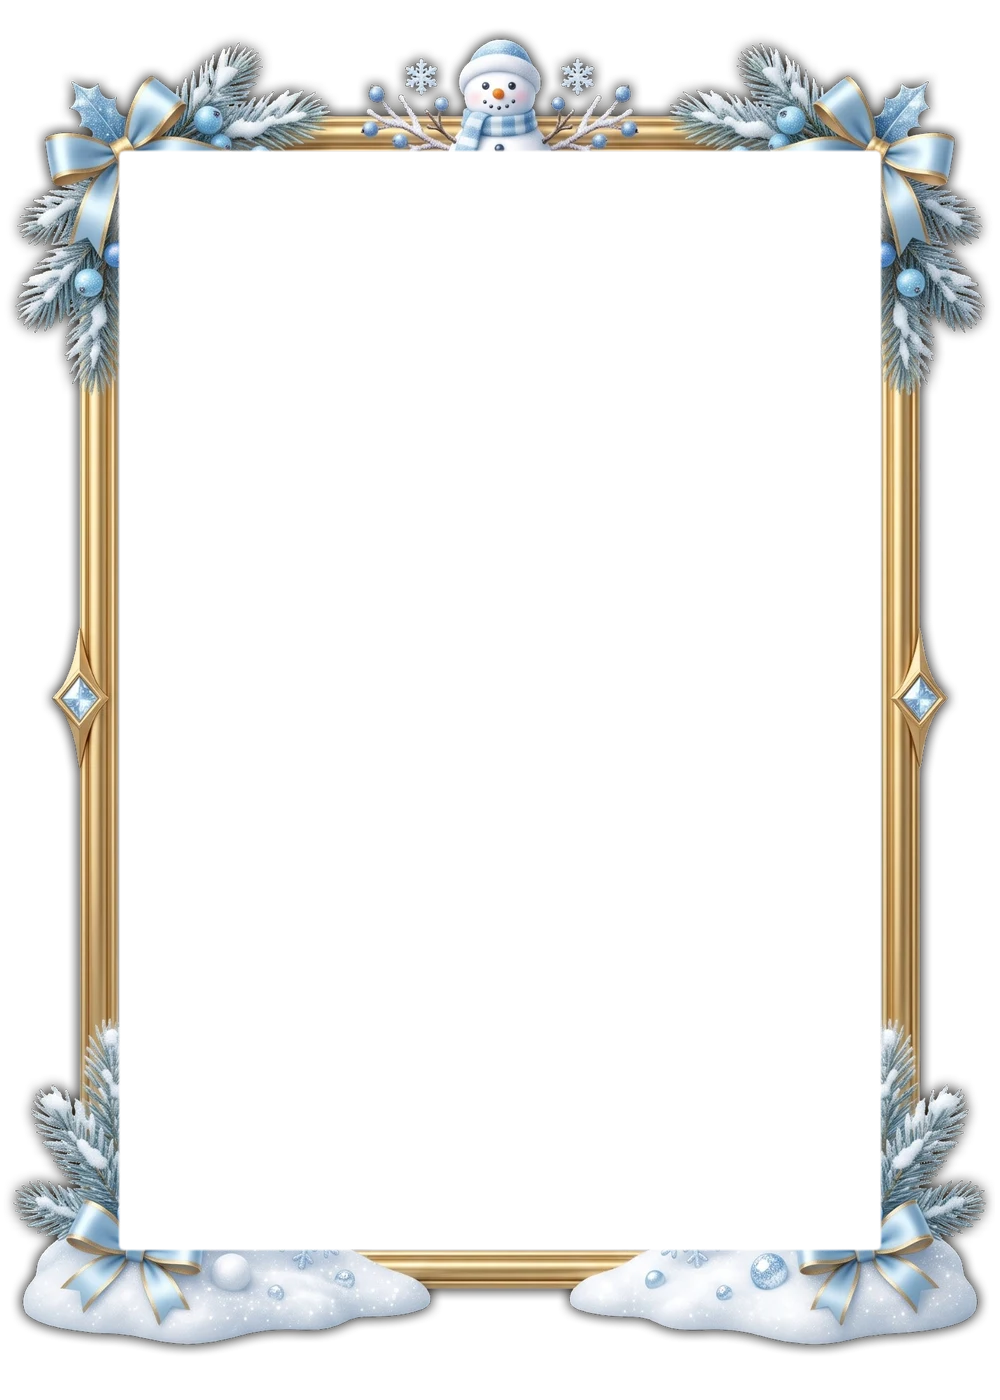
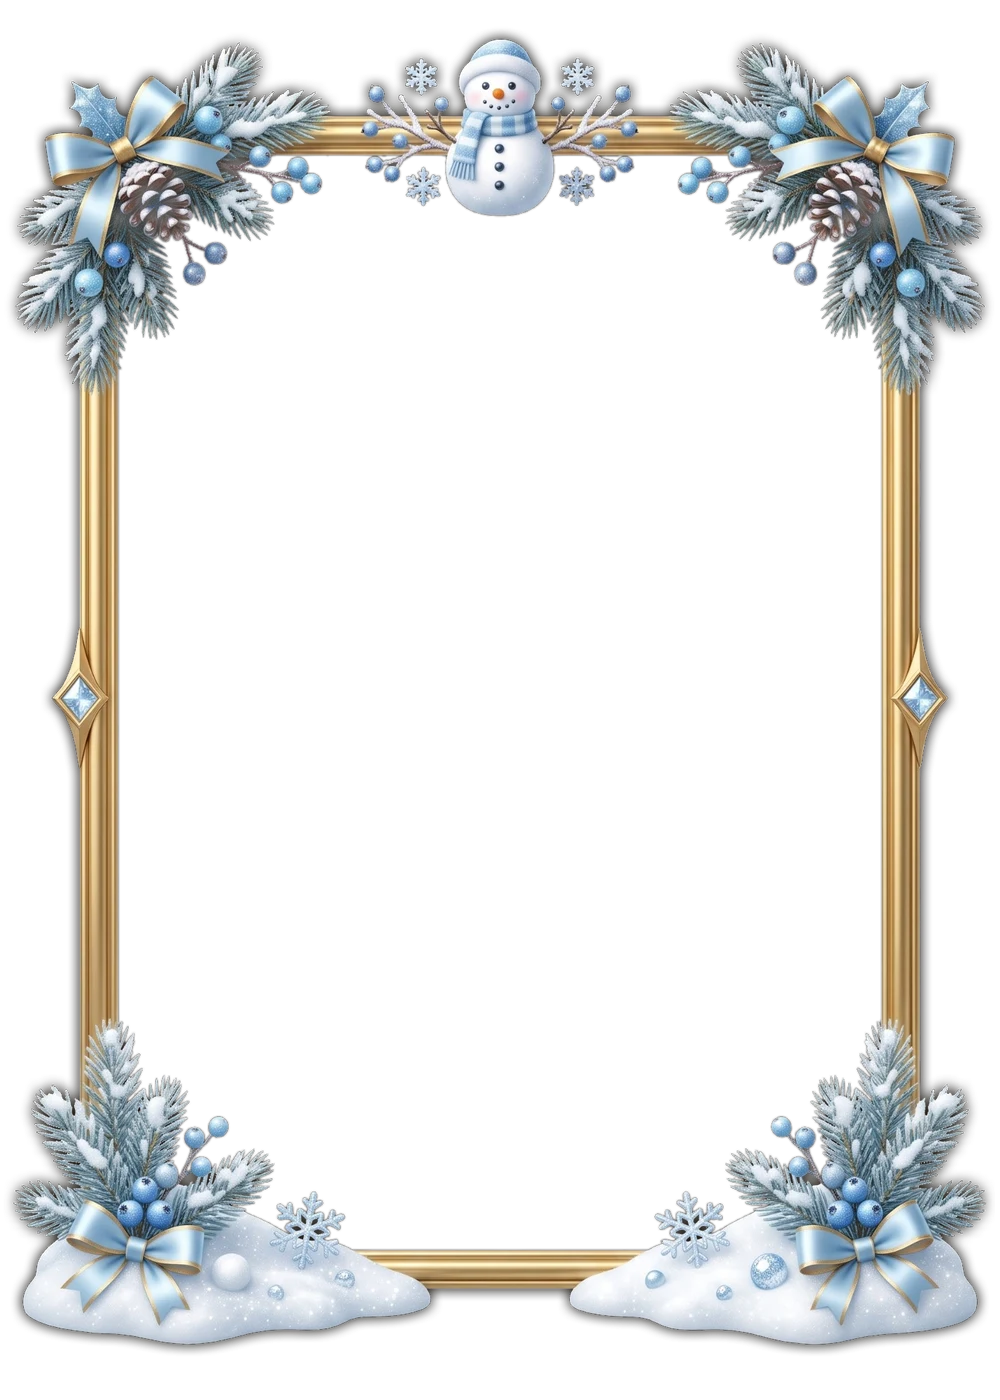
Natal gelo: ornaments over content, stats lifted and moved inward
Claude-Session: https://claude.ai/code/session_01N8XLJoyFiwvoZXFrULaieo

Changed region(s): [[0.093, 0.0921, 0.899, 0.2457], [0.651, 0.7371, 0.899, 0.8907], [0.093, 0.7371, 0.341, 0.8907]]

diff --git a/components/cancha-card.tsx b/components/cancha-card.tsx
@@ -90,6 +90,12 @@ export type Roupa = {
    * do OVR, à faixa e às estatísticas, para as informações ficarem onde sempre ficam.
    */
   contentPad?: number;
+  /** Sobe as estatísticas, a faixa e o fim da foto (em cqw) quando enfeites da moldura cobrem a parte de baixo (Natal gelo: os montes de neve). */
+  statsLift?: number;
+  /** Afasta as 3 estatísticas das laterais (em cqw), para enfeites da moldura que entram na carta não cobrirem os números. */
+  statsPadX?: number;
+  /** Afasta o nome e o selo do OVR das laterais (em cqw), quando enfeites da moldura entram na carta pelo alto. */
+  namePadX?: number;
   /** Sobe e afasta das laterais os números das estatísticas (em cqw), para a moldura da arte não passar por cima deles. */
   statsInset?: { bottom: number; side: number };
   /** Gotas de água escorrendo pela carta, desenhadas em código (só `transform` e `opacity`); ficam por cima do conteúdo e por baixo da moldura. */
@@ -157,7 +163,7 @@ const ROUPAS = {
   natal: { background: "premium-natal", overflow: "premium-natal-vaza", artInset: { x: 1.43, y: 1.02, radius: 7.5 }, window: "ring", windowInset: { x: 1.43, y: 1.02 }, windowRadius: 7.5, contentPad: 6.25, artFrame: true, trim: null, metal: ["#b8902f", "#b8902f", "#fff1c2"], accent: "#f3d27a", light: "255 215 150", bar: "#08170d", muted: "#ffe9b8", sparkles: false, neon: "#f3d27a" },
   // Natal gelo = carta de PRÊMIO DA RODADA de dezembro de 2026 (decisão do dono do app em 2026-11-05; GUARDADA, ainda não ligada em `awardRoupa`): tricô azul-gelo com renas e flocos e moldura de ouro
   // com boneco de neve, pinheiro com neve, laços azuis e montes de neve por fora (arte do dono em `prototipos/natal-gelo-*-dono.jpg`). Mesmo padrão da Rubi e da Ícone.
-  natalGelo: { background: "premium-natal-gelo", overflow: "premium-natal-gelo-vaza", artInset: { x: 1.43, y: 1.02, radius: 7.5 }, window: "ring", windowInset: { x: 1.43, y: 1.02 }, windowRadius: 7.5, contentPad: 6.25, artFrame: true, trim: null, metal: ["#b8902f", "#b8902f", "#fff1c2"], accent: "#f3d27a", light: "190 225 255", bar: "#07182a", muted: "#d4ebff", sparkles: false, neon: "#f3d27a" },
+  natalGelo: { background: "premium-natal-gelo", overflow: "premium-natal-gelo-vaza", statsLift: 8, statsPadX: 9, namePadX: 4, artInset: { x: 1.43, y: 1.02, radius: 7.5 }, window: "ring", windowInset: { x: 1.43, y: 1.02 }, windowRadius: 7.5, contentPad: 6.25, artFrame: true, trim: null, metal: ["#b8902f", "#b8902f", "#fff1c2"], accent: "#f3d27a", light: "190 225 255", bar: "#07182a", muted: "#d4ebff", sparkles: false, neon: "#f3d27a" },
   // GUARDADAS, fora da Loja (sem entrada em `CARD_SKINS`; para usar: entrada lá, `case` em `skinRoupa` e `SKIN_CLASSES`): Voltagem e Maré.
   // Voltagem (2026-11-05, pedido do dono do app: o estilo da borda da referência dele no nosso retângulo): fio duplo de ouro pálido por dentro e
   // linhas de neon por fora, com o degrau onde se dividem (`prototipos/voltagem.cjs`). Janela `ring` recuada até o fio de dentro.
@@ -789,6 +795,7 @@ export function getCanchaCardLook(player: Player, award?: CanchaCardAward) {
 
 export function CanchaCard({ player, award, className, photoSizes, photoFrame = "atual" }: CanchaCardProps) {
   const { roupa, rank, stats, band, subtitle } = getCanchaCardLook(player, award);
+  const lift = roupa.statsLift ?? 0;
   const frame = PHOTO_FRAMES[roupa.photoFrame ?? photoFrame];
 
   const vars = {
@@ -843,7 +850,7 @@ export function CanchaCard({ player, award, className, photoSizes, photoFrame = 
             "absolute inset-x-0 top-0 z-[3] flex h-[16%] flex-col justify-center border-b-[0.6cqw] border-(--cc-accent) pt-[2.6cqw] pr-[26cqw] pl-[8cqw] leading-none whitespace-nowrap",
             roupa.bareName ? "" : roupa.matte ? "bg-(--cc-bar)" : "bg-linear-to-b from-black/80 to-black/40",
           )}
-          style={roupa.contentPad ? { height: `calc(16% + ${roupa.contentPad}cqw)`, paddingLeft: `${8 + roupa.contentPad}cqw`, paddingTop: `${2.6 + roupa.contentPad}cqw` } : undefined}
+          style={roupa.contentPad ? { height: `calc(16% + ${roupa.contentPad}cqw)`, paddingLeft: `${8 + roupa.contentPad + (roupa.namePadX ?? 0)}cqw`, paddingTop: `${2.6 + roupa.contentPad}cqw` } : undefined}
         >
           <span className="truncate text-[10.5cqw] font-extrabold">{player.nickname}</span>
           <span className="mt-[1cqw] truncate text-[3.8cqw] font-bold tracking-[0.2em] text-(--cc-muted) uppercase">{subtitle}</span>
@@ -854,7 +861,7 @@ export function CanchaCard({ player, award, className, photoSizes, photoFrame = 
         {player.photo && !roupa.clean && <PhotoShadow />}
 
         {/* Foto grande, presa embaixo: o peito some no degradê antes do rodapé. */}
-        <div className={cn("absolute z-[5]", frame.box)} style={roupa.contentPad && roupa.windowInset ? { bottom: `${22.6 - roupa.windowInset.y * 1.4}cqw`, height: "99cqw" } : undefined}>
+        <div className={cn("absolute z-[5]", frame.box)} style={roupa.contentPad && roupa.windowInset ? { bottom: `${22.6 - roupa.windowInset.y * 1.4 + lift}cqw`, height: `${99 - lift}cqw` } : undefined}>
           {player.photo ? (
             <Image
               src={player.photo.url}
@@ -902,7 +909,7 @@ export function CanchaCard({ player, award, className, photoSizes, photoFrame = 
           />
         ))}
         {!roupa.clean && (
-          <div aria-hidden style={roupa.contentPad ? { bottom: `calc(12% + ${roupa.contentPad - 0.8}cqw)` } : undefined} className={cn("absolute inset-x-0 bottom-[12%] z-[7] bg-linear-to-b from-transparent to-(--cc-bar)", frame.fade)} />
+          <div aria-hidden style={roupa.contentPad ? { bottom: `calc(12% + ${roupa.contentPad - 0.8 + lift}cqw)` } : undefined} className={cn("absolute inset-x-0 bottom-[12%] z-[7] bg-linear-to-b from-transparent to-(--cc-bar)", frame.fade)} />
         )}
 
         <div
@@ -910,19 +917,19 @@ export function CanchaCard({ player, award, className, photoSizes, photoFrame = 
             "absolute top-[5cqw] right-[5.5cqw] z-[8] flex h-[24cqw] w-[19cqw] flex-col items-center pt-[2.3cqw] leading-none text-[#0b130f] [clip-path:polygon(0_0,100%_0,100%_76%,50%_100%,0_76%)]",
             roupa.matte ? RANK_FLAT_CLASSES[rank] : RANK_CREST[rank],
           )}
-          style={roupa.contentPad ? { top: `${5 + roupa.contentPad}cqw`, right: `${5.5 + roupa.contentPad}cqw` } : undefined}
+          style={roupa.contentPad ? { top: `${5 + roupa.contentPad}cqw`, right: `${5.5 + roupa.contentPad + (roupa.namePadX ?? 0) / 2}cqw` } : undefined}
         >
           <span className="text-[9cqw] font-extrabold tabular-nums">{player.ovr ?? EMPTY_VALUE}</span>
           <RankInsignia rank={rank} />
         </div>
 
-        <span style={roupa.contentPad ? { bottom: `calc(13.5% + ${roupa.contentPad - 0.8}cqw)` } : undefined} className="absolute inset-x-0 bottom-[13.5%] z-[8] truncate px-[4cqw] text-center text-[3.9cqw] font-extrabold tracking-[0.35em] text-(--cc-accent) uppercase">
+        <span style={roupa.contentPad ? { bottom: `calc(13.5% + ${roupa.contentPad - 0.8 + lift}cqw)` } : undefined} className="absolute inset-x-0 bottom-[13.5%] z-[8] truncate px-[4cqw] text-center text-[3.9cqw] font-extrabold tracking-[0.35em] text-(--cc-accent) uppercase">
           {band}
         </span>
 
         <dl
           className="absolute inset-x-0 bottom-0 z-[8] grid h-[12%] grid-cols-3 border-t-[0.6cqw] border-(--cc-accent) bg-(--cc-bar)"
-          style={roupa.contentPad ? { height: `calc(12% + ${roupa.contentPad - 0.8}cqw)`, paddingBottom: "1cqw", paddingInline: `${roupa.contentPad}cqw` } : roupa.statsInset ? { paddingBottom: `${roupa.statsInset.bottom}cqw`, paddingInline: `${roupa.statsInset.side}cqw` } : undefined}
+          style={roupa.contentPad ? { height: `calc(12% + ${roupa.contentPad - 0.8 + lift}cqw)`, paddingBottom: `${1 + lift}cqw`, paddingInline: `${roupa.contentPad + (roupa.statsPadX ?? 0)}cqw` } : roupa.statsInset ? { paddingBottom: `${roupa.statsInset.bottom}cqw`, paddingInline: `${roupa.statsInset.side}cqw` } : undefined}
         >
           {stats.map((stat, index) => (
             <div

diff --git a/.claude/rules/design-system.md b/.claude/rules/design-system.md
@@ -47,7 +47,7 @@ Desde 2026-10-29 todas as cartas usam a `CanchaCard` (o `PlayerCard` a chama). A
 - **Lenda do Trovão** (carta de prestígio **do evento Toró**, na seção Evento da Loja, **nível 5, 600 CC**, à venda só até 30/11/2026; aprovada pelo dono do app em 2026-10-31, primeiro como fixa no nível 10 e no mesmo dia passada para o evento no nível 5): a **moldura de metal dourado envelhecido** de um concept que o dono criou no Gemini, com o raio no topo e raios dourados e azuis, entra por fora da carta como arte (`overflow`), **sem o tubo de neon da carta** (`artFrame`), cobrindo uns 12 px da borda; os **raios azuis estalam como trovão** (`overflowBolts`; os dourados ficam acesos, porque têm a cor do metal e não dá para separar pela cor); o fundo é o miolo da arte de tempestade dele (nuvens carregadas com luz dourada). Scripts `prototipos/skin-lenda-arte.cjs` (moldura e raios, do concept) e `skin-lenda-fundo.cjs` (fundo). Para ficar perfeita, o dono vai gerar no Gemini a moldura, o fundo e os raios em peças separadas. Testadas e descartadas no caminho, como experimento: a carta com a arte de chuva (árvore e água) e a de tempestade com moldura azul e dourada.
 - **Moldura fina com louros e gemas (Rubi e Ícone, 2026-11-05, aprovada pelo dono do app):** moldura de ouro de ~3% da largura, louros dourados e gemas **por fora** (arte do Gemini em 728 × 1024, `prototipos/borda-louros-dono.jpg`), montada por `prototipos/montar-carta.cjs` (`GEM="matiz,saturação,luz"` troca só as gemas azuis: rubi na Rubi, diamantes claros na Ícone). **Camadas: a borda por cima de tudo; o conteúdo vai por baixo** (decisão do dono do app): a arte do fundo (`artInset`) e a janela (`windowInset`, 1,43% e 1,02%, raio 7,5cqw) seguem até quase a borda da carta, e `contentPad` (6,25cqw) devolve ao nome, ao selo do OVR, à faixa e às estatísticas o recuo de sempre (também a foto, a vinheta e o escurecimento de baixo acompanham). O miolo da moldura é o preto ligado ao centro (inundação), então o **relevo que cruza a borda de dentro fica por cima do conteúdo**; cortar o miolo num retângulo apagava o relevo interno. **Sem o aglomerado vazando**: o recorte do aglomerado da arte achatada (Voltagem, Rubi e Ícone) ficou "Frankenstein" e foi recusado; vazar só com peça própria do Gemini (elemento sozinho, sobre preto, bem iluminado, sem partes escuras). O formato é sempre o retângulo arredondado 5:7 e as informações nunca mudam; o que muda é o material, os enfeites e o elemento. Regras, prompts e armadilhas no skill `cartas-cancha`.
 - **Natal = carta do Time do Mês de dezembro de 2026 (2026-11-05, GUARDADA, ainda não ligada):** fundo de tricô natalino (renas, pinheiros, flocos) e a moldura de ouro com pinheiro, laços, sinos, estrela e azevinho por fora, no mesmo padrão da Rubi e da Ícone (borda por cima, conteúdo por baixo, relevo sobre o conteúdo); arte do dono em `prototipos/natal-*-dono.jpg`, montada com `montar-carta.cjs` (caixa 51,89,677,971; fundo 30,31,698,983; sem `holeRect`). Roupa `natal` em `ROUPAS`. Para ligar: usar no Time do Mês quando a data da rodada cair em dezembro (tema gravado na carta; as cartas dos outros meses não mudam).
-- **Natal gelo = carta de prêmio da rodada de dezembro de 2026 (2026-11-05, GUARDADA, ainda não ligada):** tricô azul-gelo (renas, pinheiros, flocos) e moldura de ouro com boneco de neve, pinheiro nevado, laços azuis e montes de neve; mesmo padrão da Rubi e da Ícone. O Gemini pôs enfeites grandes por dentro da moldura (cobriam o nome e as estatísticas): foram cortados na borda de dentro com `holeRect` (`montar-carta.cjs ... 110,160,1313,1845 166,216,1257,1790,6 12 18,31,710,1002`). Roupa `natalGelo` em `ROUPAS`.
+- **Natal gelo = carta de prêmio da rodada de dezembro de 2026 (2026-11-05, GUARDADA, ainda não ligada):** tricô azul-gelo (renas, pinheiros, flocos) e moldura de ouro com boneco de neve, pinheiro nevado, laços azuis e montes de neve; mesmo padrão da Rubi e da Ícone. Os enfeites grandes da moldura (montes de neve, pinheiros, laços) ficam **por cima do conteúdo** (decisão do dono do app, sem `holeRect`: `montar-carta.cjs ... 110,160,1313,1845 - 12 18,31,710,1002`), e a carta desvia deles com campos novos da roupa: `statsLift` (sobe estatísticas, faixa e fim da foto, em cqw), `statsPadX` (afasta as 3 estatísticas das laterais) e `namePadX` (afasta o nome e o selo do OVR). Roupa `natalGelo` em `ROUPAS`.
 - **Voltagem e Maré (2026-11-05, GUARDADAS, fora da Loja e sem entrada em `CARD_SKINS`):** Voltagem (fio duplo de ouro pálido e linhas de neon, `prototipos/voltagem.cjs`) e Maré (moldura de ouro fina com enfeites e a água abstrata do Gemini, `premium-mare*`); o dono não escolheu nível e preço. Para usar: entrada em `CARD_SKINS`, `case` em `skinRoupa` e `SKIN_CLASSES`.
 - **Skins premium com cristais (aprovadas pelo dono do app em 2026-11-01; Esmeralda, Safira, Ametista e Rubi):** uma arte só que o dono gerou no Gemini (safira e ouro: fundo azul-noite com estrelas, fio de ouro, neon e um aglomerado de cristais com pepitas de ouro que sai pelo lado direito **por cima** da moldura), reaproveitada nas quatro pedras girando só o tom dos azuis (o ouro fica). `prototipos/premium-v2.cjs` ajusta a arte: proporção 5:7, o neon da arte é **redesenhado concêntrico ao ouro** (respiro de ~1,5% da largura nos quatro lados e nos cantos; o da arte tinha o canto mais fechado e um vão grande) e só ao lado do aglomerado vale o neon original, com passagem suave; saem `premium-<pedra>.webp` (fundo na janela) e `premium-<pedra>-vaza.webp` (moldura e cristais por fora, mais larga só para a direita: `overflowWidth` 774/714, porque o aglomerado passa da sobra de 8%). Cor nova de pedra = uma linha em `GEMS`. Roupas com `artFrame`, `overflow` e `overflowWidth`. **Lição do dono (2026-11-01):** o fundo da carta é o que mais pesa no premium; neon contínuo, fino e simétrico (sem aberturas irregulares); o que vaza passa por cima da moldura. Faixa de estatísticas continua escura e sólida (o vidro fosco foi testado e descartado: misturava estilos). Gemini: dar o gabarito 5:7 e pedir uma camada por mensagem. **O story de compartilhar não usa essa arte** (só cartas de prêmio).
 - **Ícone (2026-11-01, mesmo caminho, outra arte do Gemini):** mármore branco-creme com veios dourados, tubo e fio de ouro (já concêntricos, mantidos como vieram), aglomerado de quartzo, diamantes e pepitas de ouro por cima da moldura; `prototipos/premium-icone.cjs` (sem girar cor). Fundo claro: a roupa leva `clean` (sem a sombra atrás da pessoa, sem a vinheta e sem o degradê escuro que desce até as estatísticas: no mármore eles apareciam como sujeira). **Regra que serve para as próximas artes:** por dentro da carta, a camada de fora (`-vaza`) cobre só o que está fora da janela da carta (fio de ouro e cantos, medido pela janela arredondada); se ela entrar na janela, vira uma faixa por cima do ombro da foto (foi o que o dono viu na Ícone). A foto de exemplo termina com um corte reto antes da borda: com a faixa fora da janela, o corpo chega às duas bordas. A rampa da camada de fora fica 1 a 3 px **por dentro** da janela, onde o fundo sempre está presente: se ela passa da borda (que cai no meio de um pixel), uma coluna meio transparente deixa o escuro de trás aparecer e vira um risco fino por cima dos cristais. Os cristais translúcidos deixam ver o fio de ouro por baixo, como na arte. As premium com cristais (Safira etc.) ainda deixam ~7 px de faixa por cima da foto.

diff --git a/docs/calendario-eventos.md b/docs/calendario-eventos.md
@@ -43,7 +43,7 @@ Cada ideia pode ter: tema das cartas especiais, 1 ou 2 cartas na Loja e, opciona
     - Já definidos: Gol da Rodada (`#ffd400` · `#1d4fb8`→`#03113a` · `#ffe56b`) e Bola Murcha (`#7c7f86` · `#8f1022`→`#2a0308` · `#ffd5da`).
   - **Black Friday (✅ aprovada, 30%, o mês inteiro: 01/11 a 30/11):** desconto de 30% nas personalizações premium **e nas de clube** (✅ dono do app, 2026-10-21), com faixa preta "Black Friday · -30%" na Loja e preço riscado (250 → 175).
 - ✅ **Dezembro: Natal + Vingadores: Doomsday** (decidido pelo dono do app em 2026-10-22). **Os dois eventos acontecem ao mesmo tempo, o mês inteiro**, cada um num lugar:
-  - ✅ **Carta de prêmio da rodada de dezembro (2026-11-05, dono do app): "Natal gelo"** (tricô azul-gelo com renas, pinheiros e flocos e moldura de ouro com boneco de neve, pinheiro nevado, laços azuis e montes de neve; arte do dono em `prototipos/natal-gelo-*-dono.jpg`, camadas `premium-natal-gelo*.webp`, roupa `natalGelo`). **Salva e guardada**, para ligar nos prêmios da rodada (qual prêmio vira esta carta: a definir com o dono; a suposição é os destaques) quando o tema de dezembro existir. O Gemini pôs enfeites grandes por dentro da moldura (cobriam o nome e as estatísticas); eles foram cortados na borda de dentro (`holeRect` 166,216,1257,1790,6), então os montes de neve e os pinheiros de baixo aparecem só por fora. Numa versão futura, pedir os enfeites todos por fora.
+  - ✅ **Carta de prêmio da rodada de dezembro (2026-11-05, dono do app): "Natal gelo"** (tricô azul-gelo com renas, pinheiros e flocos e moldura de ouro com boneco de neve, pinheiro nevado, laços azuis e montes de neve; arte do dono em `prototipos/natal-gelo-*-dono.jpg`, camadas `premium-natal-gelo*.webp`, roupa `natalGelo`). **Salva e guardada**, para ligar nos prêmios da rodada (qual prêmio vira esta carta: a definir com o dono; a suposição é os destaques) quando o tema de dezembro existir. Os enfeites grandes da moldura (montes de neve, pinheiros e laços) ficam **por cima do conteúdo**, a pedido do dono do app, e as peças da carta se afastam deles: estatísticas mais para cima e para o centro (`statsLift` 8, `statsPadX` 9) e nome e selo do OVR um pouco para dentro (`namePadX` 4).
   - ✅ **Carta do Time do Mês de dezembro (2026-11-05, dono do app): a carta "Natal"** (fundo de tricô natalino com renas, pinheiros e flocos, e moldura de ouro com pinheiro, laços, sinos, estrela e azevinho; arte do dono em `prototipos/natal-fundo-dono.jpg` e `natal-borda-dono.jpg`, camadas `premium-natal*.webp`, roupa `natal` em `ROUPAS`). **Já está salva e guardada** (não é carta da Loja): falta ligar no `MONTH_ROUPA`/`awardRoupa` quando o tema de dezembro entrar em `CARD_THEMES`, pelo tema gravado na carta (as cartas do Time do Mês dos outros meses seguem como estão).
   - **Natal nas cartas de premiação:** é o tema sazonal de dezembro em `CARD_THEMES` (as cartas especiais da rodada vestem o Natal). Ideia anterior para o visual, ainda a aprovar: natalino discreto (vermelho e verde-pinheiro, neve leve).
   - **Vingadores: Doomsday na Loja:** as cartas de evento à venda em dezembro são dos Vingadores (filme da Marvel; estreia prevista para meados de dezembro de 2026, conferir a data no Brasil).
